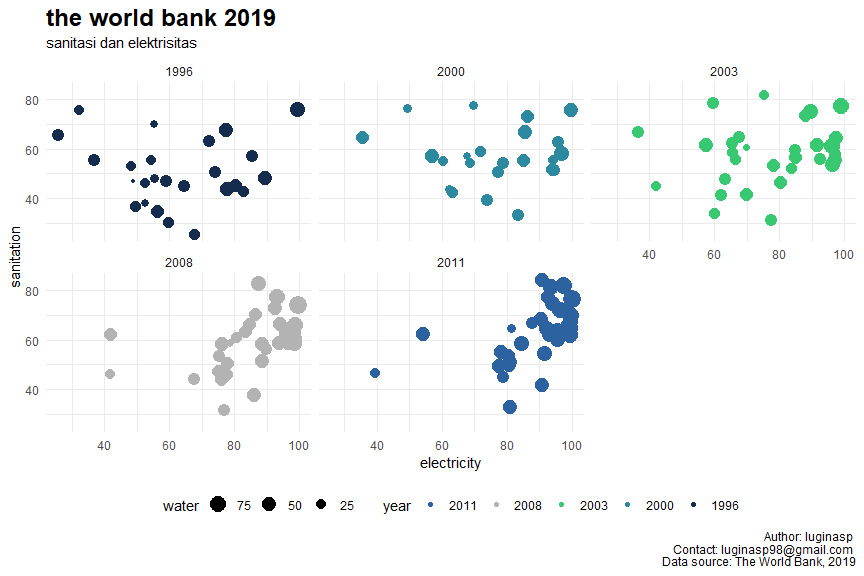
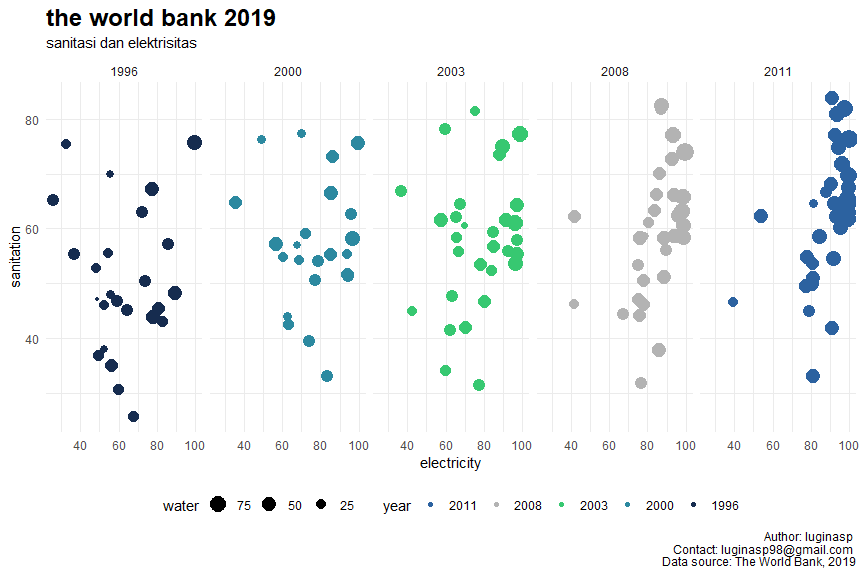
w2-04

diff --git a/vignettes/004_kostumisasi.md b/vignettes/004_kostumisasi.md
@@ -357,6 +357,13 @@ plot_household
 
 <img src="004_kostumisasi_files/figure-gfm/plot-household2-1.png" style="display: block; margin: auto;" />
 
+``` r
+plot_household +
+  scale_colour_brewer()
+```
+
+<img src="004_kostumisasi_files/figure-gfm/plot-household2-2.png" style="display: block; margin: auto;" />
+
 Sekarang grafik tersebut nampak lebih baik dengan diperbaikinya
 titik-titik data yang menumpuk dan pergantian palet warna. Anda juga
 dapat menggunakan palet warna lain, misalnya `scale_colour_brewer()`
@@ -469,7 +476,7 @@ terjadi pada grafik tersebut?
 
 ``` r
 plot_household +
-  facet_wrap(~year)
+  facet_grid(~year)
 ```
 
 <img src="004_kostumisasi_files/figure-gfm/facet-plot_household-1.png" style="display: block; margin: auto;" />
